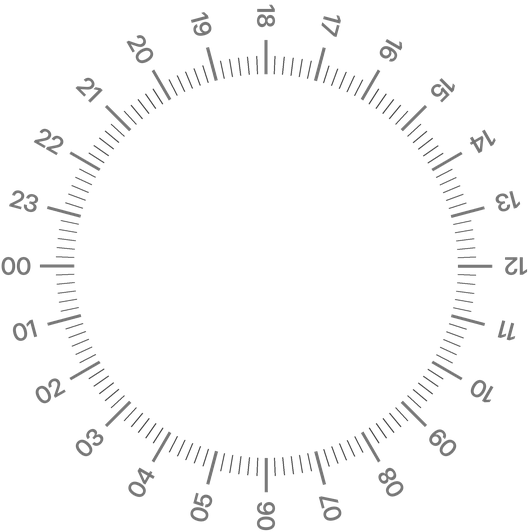
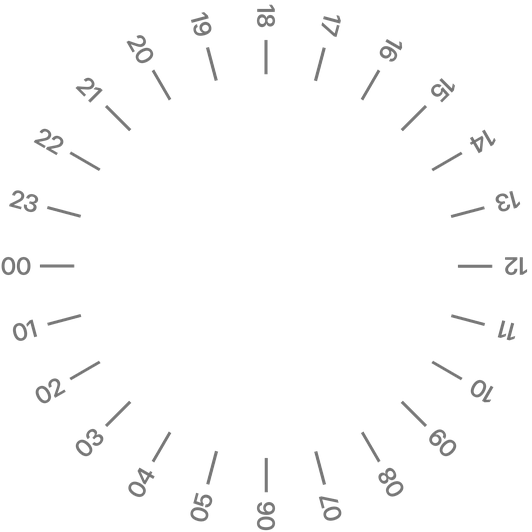
Лінійка: AOD — шматок шкали ±1 год без проміжних поділок, краї плавно гаснуть [skip ci]
Claude-Session: https://claude.ai/code/session_01WysSwiNnPXkBgFifEqasra

diff --git a/windows/faces/ruler/make.py b/windows/faces/ruler/make.py
@@ -62,7 +62,7 @@ for t,dim in (("n",False),("a",True)):
     for j10 in range(24*6):
         psi=270-DEG*j10/6; big=j10%6==0            # годинний кут: 270° — ліворуч (до риски)
         r0,r1=(CX-194),(CX-160 if big else CX-176)
-        d.line([at(psi,r0),at(psi,r1)],fill=cB if big else cS,width=(3 if big else 1)*K)
+        if big or not dim: d.line([at(psi,r0),at(psi,r1)],fill=cB if big else cS,width=(3 if big else 1)*K)   # в AOD — лише годинні поділки
     for j in range(24):
         psi=270-DEG*j; beta=270-psi                # підпис повернуто так, щоб біля риски він стояв рівно
         tp=Image.new("RGBA",(60*K,40*K),(0,0,0,0)); ImageDraw.Draw(tp).text((30*K,20*K),"%02d"%j,font=fl,fill=cL,anchor="mm")
@@ -75,6 +75,12 @@ for t,dim in (("n",False),("a",True)):
     im=Image.new("RGBA",(W*K,24*K),(0,0,0,0)); d=ImageDraw.Draw(im)
     d.line([156*K,12*K,196*K,12*K],fill=cP,width=2*K); d.polygon([(200*K,4*K),(188*K,12*K),(200*K,20*K)],fill=cP)
     image("ptr_"+t,down(im)); lay(t,"ptr_"+t,0,MID-12)
+    if dim:   # AOD — видно лише шматок шкали довкола риски (±1 год), далі шкала плавно гасне в чорне
+        WIN,FADE=72,24; mk=Image.new("RGBA",(W-SX0,H),(0,0,0,255)); px=mk.load()
+        for y in range(H):
+            dy=abs(y+0.5-MID); a=0 if dy<=WIN-FADE else (255 if dy>=WIN else round(255*(dy-WIN+FADE)/FADE))
+            for x in range(W-SX0): px[x,y]=(0,0,0,a)
+        image("mask_a",mk); lay(t,"mask_a",SX0,0)
     # хвилини, «ХВ», секунди
     fm=F("Bold",72); cw=digits("min_"+t,fm,(115,115,115) if dim else WH,80); number("min_"+t,"timeMinute","min_"+t,2); lay(t,"min_"+t,62-cw,MID-44-40+2)
     image("xv_"+t,text_img("ХВ",F("Bold",21,False),(115,115,115) if dim else OR,h=24)); lay(t,"xv_"+t,62-Image.open(os.path.join(OUT,"xv_%s.png"%t)).width/2,MID+15-12+3)
